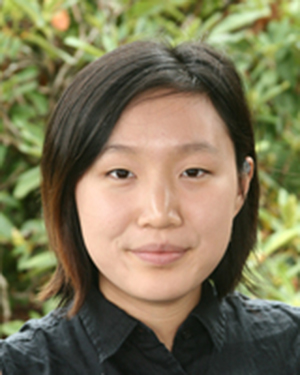
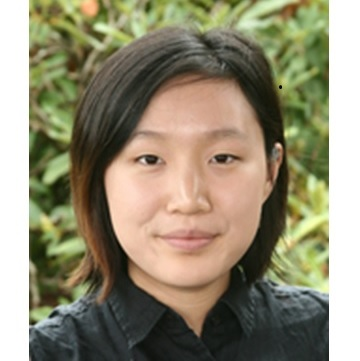
update zheng photo size

diff --git a/_pages/about.md b/_pages/about.md
@@ -23,9 +23,9 @@ feature_row:
   - image_path: /assets/images/members/Alisha-Zhao.jpg
     title: "Alisha Zhao"
     excerpt: "<p>Alisha, a senior at Portland's Lincoln High, was named one of the nation's 10 top teen volunteers in 2016. She has created and led a large nonprofit, Kids First Project, devoted to helping homeless youth break the generational cycle of poverty.</p><p>For her work, she was appointed by Mayor Hales to be the first high school student in history to serve as City of Portland’s Human Rights Commissioner.</p><p>She also sits in several youth advisory boards in national and global organizations.</p>"
-  - image_path: /assets/images/members/Isabelle-Zheng1.jpg
+  - image_path: /assets/images/members/Isabelle-Zheng.jpg
     title: "Isabelle Zheng"
-    excerpt: "<p>Isabelle, 17, of Portland, a junior at Catlin Gabel School, is the co-founder and executive director of 'Project Prelude,' a non-profit organization she started with a fellow musician that provides free after-school group violin lessons to dozens of fourth- through sixth-graders in the Portland area. She is also a dedicated flutist in her youth orchestra, an advocate of youth entrepreneurship, and active club leader at her school.</p><p>Isabelle is the distinguished finalist for the Prudential Spirit of Community Awards</p>"
+    excerpt: "<p>Isabelle, a junior at Catlin Gabel School, is the co-founder and executive director of 'Project Prelude,' a non-profit organization she started with a fellow musician that provides free after-school group violin lessons to dozens of fourth- through sixth-graders in the Portland area. She is also a dedicated flutist in her youth orchestra, an advocate of youth entrepreneurship, and active club leader at her school.</p><p>Isabelle is the distinguished finalist for 2017 Prudential Spirit of Community Awards</p>"
 ---
 ## Our Mission
 
